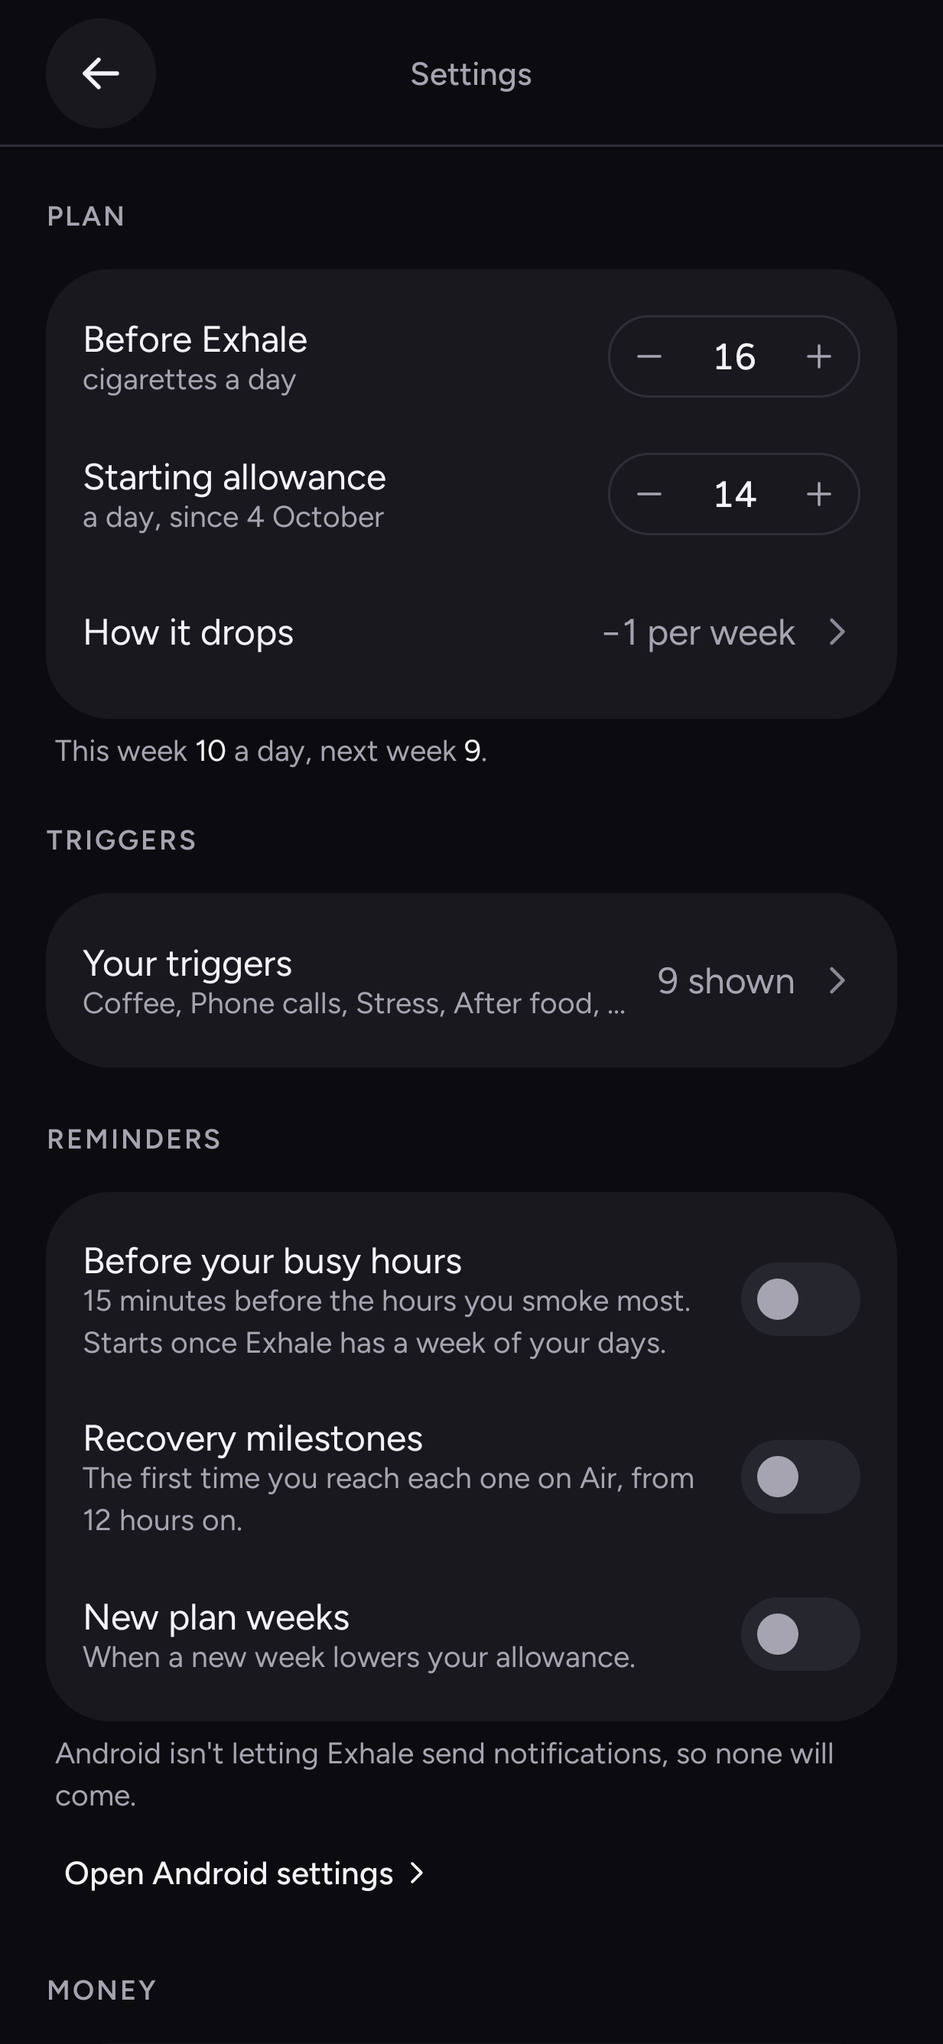
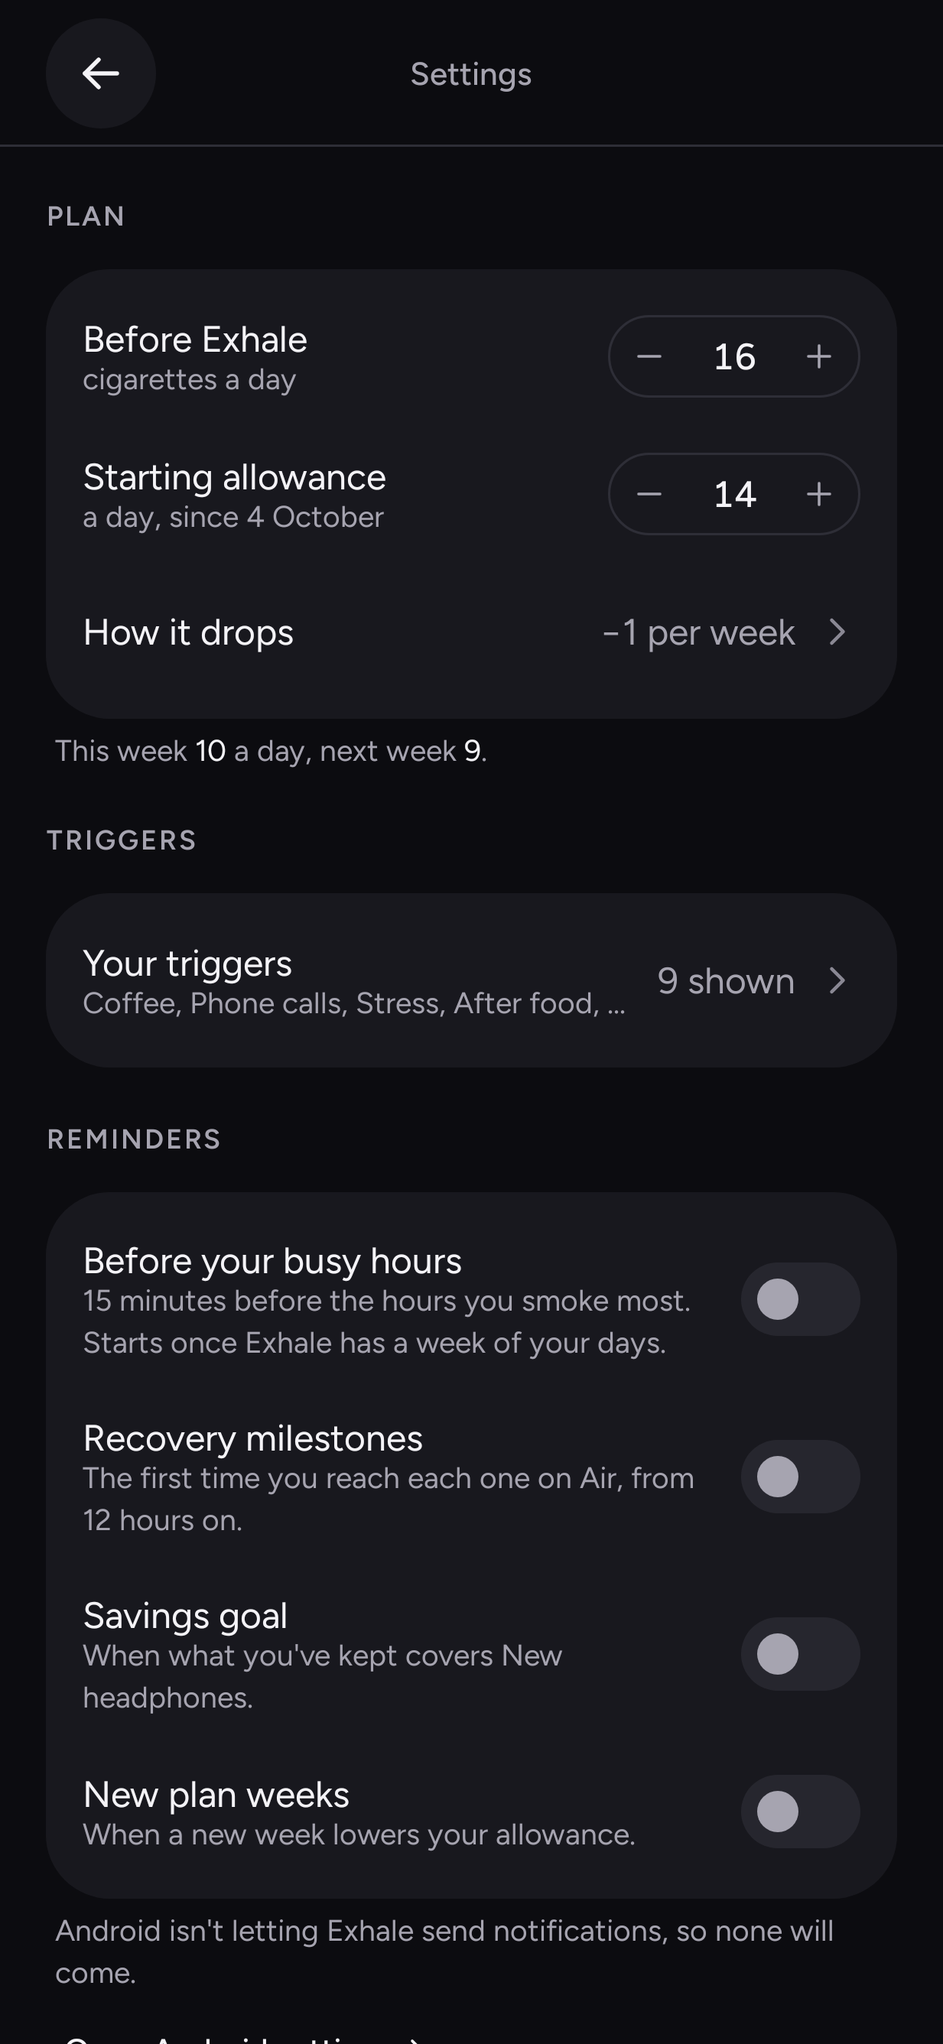
Reminders: tell the user when what's kept covers the savings goal
A fourth reminder kind, GOAL: posted at the first moment what's kept since
the plan start covers the goal (Money.goalReachedAt), once per goal. Opens
Money. Settings → Reminders gets a "Savings goal" switch.

Claude-Session: https://claude.ai/code/session_018i9YmsspXYpP5LPvfHarFx

diff --git a/app/src/main/java/app/exhale/ui/screens/SettingsScreen.kt b/app/src/main/java/app/exhale/ui/screens/SettingsScreen.kt
@@ -143,6 +143,8 @@ fun SettingsScreen(
     reminders: ReminderControls = ReminderControls(),
     /** The busy hours the nudges come before; null until there's a week to go on. */
     busyHours: List<Int>? = null,
+    /** What's kept already covers the goal. */
+    goalReached: Boolean = false,
 ) {
     var baseline by rememberSaveable { mutableIntStateOf(current.baselinePerDay) }
     var allowance by rememberSaveable { mutableIntStateOf(initialAllowance) }
@@ -186,7 +188,7 @@ fun SettingsScreen(
             when (p) {
                 null -> SettingsMain(
                     current, today, baseline, { baseline = it }, baselineChanged, allowance, { allowance = it }, allowanceChanged,
-                    dirty, mainScroll, onTheme, onHome, { page = it }, Triggers.shown(triggers), reminders, busyHours,
+                    dirty, mainScroll, onTheme, onHome, { page = it }, Triggers.shown(triggers), reminders, busyHours, goalReached,
                     { ask = Ask.ERASE }, prototypeTools?.let { t -> PrototypeTools(t.onDesignSystem) { ask = Ask.DEMO } },
                     onBack = { if (dirty) ask = Ask.UNSAVED else onClose() },
                     onSaveCounts = { saveCounts(); toast.show("Saved") },
@@ -263,6 +265,7 @@ private fun SettingsMain(
     shownTriggers: List<Trigger>,
     reminders: ReminderControls,
     busyHours: List<Int>?,
+    goalReached: Boolean,
     onErase: () -> Unit,
     tools: PrototypeTools?,
     onBack: () -> Unit,
@@ -306,7 +309,7 @@ private fun SettingsMain(
             }
 
             Overline("Reminders", Modifier.paddingTop())
-            Reminders(current, today, reminders, busyHours)
+            Reminders(current, today, reminders, busyHours, goalReached)
 
             Overline("Money", Modifier.paddingTop())
             ExCard(padding = ExSpace.sm) {
@@ -358,12 +361,12 @@ private fun CardWithCaption(content: @Composable ColumnScope.() -> Unit) {
 }
 
 /**
- * The three reminders as switches, each saying when it comes. A switch shows on only while the
+ * The four reminders as switches, each saying when it comes. A switch shows on only while the
  * reminder is on and Android lets Exhale post; when it doesn't, a line under the card says so and
  * links to Android's settings.
  */
 @Composable
-private fun Reminders(current: UserSettings, today: LocalDate, controls: ReminderControls, busyHours: List<Int>?) {
+private fun Reminders(current: UserSettings, today: LocalDate, controls: ReminderControls, busyHours: List<Int>?, goalReached: Boolean) {
     val c = Ex.colors
     val h24 = DateFormat.is24HourFormat(LocalContext.current)
     fun on(kind: ReminderKind) = controls.allowed && kind in current.reminders
@@ -380,6 +383,11 @@ private fun Reminders(current: UserSettings, today: LocalDate, controls: Reminde
             SwitchRow(
                 "Recovery milestones", on(ReminderKind.MILESTONE), { controls.onChange(ReminderKind.MILESTONE, it) },
                 sub = "The first time you reach each one on Air, from 12 hours on.",
+            )
+            SwitchRow(
+                "Savings goal", on(ReminderKind.GOAL), { controls.onChange(ReminderKind.GOAL, it) },
+                sub = "When what you've kept covers ${current.goalName}." +
+                    if (goalReached) " It already does, so a bigger goal would be next." else "",
             )
             SwitchRow(
                 "New plan weeks", on(ReminderKind.PLAN_WEEK), { controls.onChange(ReminderKind.PLAN_WEEK, it) },

diff --git a/app/src/main/java/app/exhale/notify/ReminderNotifier.kt b/app/src/main/java/app/exhale/notify/ReminderNotifier.kt
@@ -30,13 +30,15 @@ object ReminderNotifier {
     private fun channelId(kind: ReminderKind) = when (kind) {
         ReminderKind.BUSY_HOUR -> "busy_hours"
         ReminderKind.MILESTONE -> "milestones"
+        ReminderKind.GOAL -> "savings_goal"
         ReminderKind.PLAN_WEEK -> "plan_weeks"
     }
 
-    /** Where tapping it goes: a busy-hour nudge to Urge Wave, a milestone to Air, a plan week to Ember. */
+    /** Where tapping it goes: a busy-hour nudge to Urge Wave, a milestone to Air, the goal to Money, a plan week to Ember. */
     fun target(kind: ReminderKind) = when (kind) {
         ReminderKind.BUSY_HOUR -> OpenTarget.WAVE
         ReminderKind.MILESTONE -> OpenTarget.AIR
+        ReminderKind.GOAL -> OpenTarget.MONEY
         ReminderKind.PLAN_WEEK -> OpenTarget.EMBER
     }
 
@@ -61,6 +63,8 @@ object ReminderNotifier {
                     .apply { description = "A nudge 15 minutes before the hours you usually smoke most." },
                 NotificationChannel(channelId(ReminderKind.MILESTONE), "Recovery milestones", NotificationManager.IMPORTANCE_DEFAULT)
                     .apply { description = "The first time you reach each milestone on Air." },
+                NotificationChannel(channelId(ReminderKind.GOAL), "Savings goal", NotificationManager.IMPORTANCE_DEFAULT)
+                    .apply { description = "When what you've kept covers what you're saving for." },
                 // Quiet: it says what the day's plan is, nothing needs doing at that moment.
                 NotificationChannel(channelId(ReminderKind.PLAN_WEEK), "New plan weeks", NotificationManager.IMPORTANCE_LOW)
                     .apply { description = "When a new week of your plan lowers the allowance." },
@@ -74,11 +78,12 @@ object ReminderNotifier {
         if (!allowed(context)) return
         ensureChannels(context)
         // Accents tint the small icon: craving (flare) before a busy hour, recovery (oxygen) for a
-        // milestone, in between (sky) for the plan. Ink tones, so they read on a light shade too.
+        // milestone, money (sun) for the goal, in between (sky) for the plan. Ink tones, so they read on a light shade too.
         val c = exColors(dark = false)
         val accent = when (r.kind) {
             ReminderKind.BUSY_HOUR -> c.flareInk
             ReminderKind.MILESTONE -> c.oxyInk
+            ReminderKind.GOAL -> c.sunInk
             ReminderKind.PLAN_WEEK -> c.skyInk
         }
         val open = Intent(context, MainActivity::class.java)

diff --git a/app/src/main/java/app/exhale/domain/Reminders.kt b/app/src/main/java/app/exhale/domain/Reminders.kt
@@ -16,6 +16,9 @@ enum class ReminderKind(
     /** A recovery milestone reached for the first time. Still true until the next cigarette. */
     MILESTONE(Duration.ofHours(12)),
 
+    /** What's kept covers the savings goal, the first time. True all that day. */
+    GOAL(Duration.ofHours(24)),
+
     /** A new plan week that lowers the allowance. Posted at midnight; true all that day. */
     PLAN_WEEK(Duration.ofHours(24)),
 }
@@ -44,6 +47,13 @@ sealed interface Reminder {
         override val text get() = "The first time you've reached this one. Air shows what comes next."
     }
 
+    /** What's kept covers the goal called [goalName], first at [at]. Opens Money. */
+    data class GoalReached(override val at: Instant, val goalName: String) : Reminder {
+        override val kind get() = ReminderKind.GOAL
+        override val title get() = "You've kept enough for $goalName"
+        override val text get() = "What you didn't spend since you started covers it. Go get it."
+    }
+
     /** A plan week starting at [at] with [perDay] a day, down from [before]. Opens Ember. */
     data class PlanWeek(override val at: Instant, val perDay: Int, val before: Int) : Reminder {
         override val kind get() = ReminderKind.PLAN_WEEK
@@ -64,6 +74,8 @@ sealed interface Reminder {
  *   when a cigarette was logged or a craving wave started in the [BUSY_QUIET] before it.
  * - **Milestones**: each one from 12 hours on ([FIRST_MILESTONE]), the first time a gap reaches it.
  *   20 minutes comes after nearly every cigarette, so it never notifies.
+ * - **Goal**: the first moment what's kept covers the savings goal ([Money.goalReachedAt]). Once it
+ *   has, dipping under and back doesn't count again; a new, bigger goal does.
  * - **Plan weeks**: midnight on the first day of a plan week whose base allowance is lower than the
  *   day before. Never on Hold steady, and never again once the plan is at 0.
  */
@@ -87,6 +99,7 @@ object Reminders {
         return when (kind) {
             ReminderKind.BUSY_HOUR -> nextBusyHour(s, logs, now, after, zone)
             ReminderKind.MILESTONE -> nextMilestone(logs, after)
+            ReminderKind.GOAL -> Money.goalReachedAt(s, logs, zone)?.takeIf { it.isAfter(after) }?.let { Reminder.GoalReached(it, s.goalName) }
             ReminderKind.PLAN_WEEK -> nextPlanWeek(s, after, zone)
         }
     }

diff --git a/app/src/test/java/app/exhale/domain/MoneyTest.kt b/app/src/test/java/app/exhale/domain/MoneyTest.kt
@@ -8,6 +8,7 @@ import org.junit.Test
 import java.time.Instant
 import java.time.LocalDate
 import java.time.ZoneOffset
+import java.time.temporal.ChronoUnit
 
 class MoneyTest {
     private val zone = ZoneOffset.UTC
@@ -79,5 +80,37 @@ class MoneyTest {
         assertEquals(4L * 50, Money.keptFollowingPlan(s, days = 1))
         // A start above the baseline keeps nothing, never less.
         assertEquals(0L, Money.keptFollowingPlan(s.copy(startAllowance = 30, taper = TaperType.HOLD), days = 28))
+    }
+
+    private fun kept(logs: List<SmokeLog>, t: Instant) = Money.summary(settings, logs, t, zone).keptMinor
+
+    @Test fun goalReachedAt_isTheFirstMomentKeptCoversTheGoal() {
+        // 599.00 at 0.50 each is 1,198 not smoked: 66.6 days at 18 a day with none smoked.
+        val none = Money.goalReachedAt(settings, emptyList(), zone)!!
+        assertTrue(kept(emptyList(), none) >= 59900)
+        assertTrue(kept(emptyList(), none.minusSeconds(60)) < 59900)
+        assertEquals(at(66), none.truncatedTo(ChronoUnit.DAYS))
+        // At 10 a day for 40 days, then none: later, and still the first moment.
+        val logs = daily(10, 40)
+        val some = Money.goalReachedAt(settings, logs, zone)!!
+        assertTrue(some.isAfter(none))
+        assertTrue(kept(logs, some) >= 59900)
+        assertTrue(kept(logs, some.minusSeconds(60)) < 59900)
+    }
+
+    @Test fun goalReachedAt_aLogBeforeMovesItLaterOneAfterDoesNot() {
+        val reached = Money.goalReachedAt(settings, emptyList(), zone)!!
+        // One before: a cigarette's worth later, 1/18 of a day.
+        val before = listOf(SmokeLog(1, at(10), null, false))
+        assertEquals(reached.plusMillis(86_400_000L / 18), Money.goalReachedAt(settings, before, zone))
+        // One just after: kept dips under for a while, but it was reached.
+        val after = listOf(SmokeLog(1, reached.plusSeconds(60), null, false))
+        assertEquals(reached, Money.goalReachedAt(settings, after, zone))
+        assertTrue(kept(after, reached.plusSeconds(120)) < 59900)
+    }
+
+    @Test fun goalReachedAt_noneWithoutAGoalOrABaseline() {
+        assertNull(Money.goalReachedAt(settings.copy(goalMinor = 0), emptyList(), zone))
+        assertNull(Money.goalReachedAt(settings.copy(baselinePerDay = 0), emptyList(), zone))
     }
 }

diff --git a/app/src/main/java/app/exhale/domain/Money.kt b/app/src/main/java/app/exhale/domain/Money.kt
@@ -81,6 +81,31 @@ object Money {
     }
 
     /**
+     * The first moment what's kept since the plan start covers the goal ([MoneySummary.keptMinor] ≥
+     * [UserSettings.goalMinor]), counting [logs] as they are and none after the last one. In the past
+     * once reached, even if it has dipped under since; null with no goal, no price or a baseline of 0.
+     * Between two logs, what's kept grows by one cigarette every 1/baseline of a day.
+     */
+    fun goalReachedAt(s: UserSettings, logs: List<SmokeLog>, zone: ZoneId): Instant? {
+        val price = s.pricePerCigMinor
+        if (s.goalMinor <= 0 || price <= 0.0 || s.baselinePerDay <= 0) return null
+        // The fewest cigarettes not smoked whose price covers the goal, rounded as the summary rounds.
+        var need = ceil(s.goalMinor / price).toLong()
+        while (need > 0 && ((need - 1) * price).toLong() >= s.goalMinor) need--
+        while ((need * price).toLong() < s.goalMinor) need++
+        val start = s.planStart.atStartOfDay(zone).toInstant()
+        val smoked = logs.map { it.at }.filter { it >= start }.sorted()
+        // With j smoked so far, `need` not smoked is reached at start + (need + j) / baseline days. The
+        // first j whose moment comes before the (j + 1)th cigarette is the answer.
+        for (j in 0..smoked.size) {
+            // A millisecond over, so rounding can't leave it a hair short of a whole cigarette.
+            val at = start.plusMillis(ceil((need + j) * DAY_MS / s.baselinePerDay).toLong() + 1)
+            if (j == smoked.size || !at.isAfter(smoked[j])) return at
+        }
+        return null
+    }
+
+    /**
      * Money kept over the plan's first [days] if exactly the allowance is smoked each day: the
      * estimate Onboarding shows before anything is logged.
      */
@@ -89,5 +114,7 @@ object Money {
             (s.baselinePerDay - PlanMath.baseAllowance(s, s.planStart.plusDays(d.toLong()))).coerceAtLeast(0) * s.pricePerCigMinor
         }.toLong()
 
-    private fun daysBetween(from: Instant, to: Instant): Double = Duration.between(from, to).toMillis() / 86_400_000.0
+    private const val DAY_MS = 86_400_000.0
+
+    private fun daysBetween(from: Instant, to: Instant): Double = Duration.between(from, to).toMillis() / DAY_MS
 }

diff --git a/app/src/main/java/app/exhale/ui/ExhaleNav.kt b/app/src/main/java/app/exhale/ui/ExhaleNav.kt
@@ -88,8 +88,8 @@ internal enum class Tab(val route: String, val label: String, val icon: ImageVec
     }
 }
 
-/** A screen a tapped reminder opens: Urge Wave, Air or Ember. */
-enum class OpenTarget { WAVE, AIR, EMBER }
+/** A screen a tapped reminder opens: Urge Wave, Air, Money or Ember. */
+enum class OpenTarget { WAVE, AIR, MONEY, EMBER }
 
 /** What the app bar's leading shows: one per tab, and Rhythm's changes while a day is [picked]. */
 internal data class LeadingKey(val tab: Tab, val picked: Boolean = false)
@@ -182,6 +182,7 @@ private fun MainNav(state: ExhaleState, logged: LoggedEvent?, vm: ExhaleViewMode
         when (open) {
             OpenTarget.WAVE -> if (nav.currentDestination?.route != WAVE) nav.navigate(WAVE)
             OpenTarget.AIR -> goToTab(Tab.AIR)
+            OpenTarget.MONEY -> goToTab(Tab.MONEY)
             OpenTarget.EMBER -> goToTab(Tab.EMBER)
             null -> return@LaunchedEffect
         }
@@ -310,6 +311,7 @@ private fun MainNav(state: ExhaleState, logged: LoggedEvent?, vm: ExhaleViewMode
                 SettingsScreen(
                     reminders = reminderControls(vm),
                     busyHours = state.busyHours,
+                    goalReached = state.money?.goalLeftMinor == 0L,
                     current = state.settings,
                     today = state.today,
                     onSave = vm::saveSettings,

diff --git a/app/src/test/java/app/exhale/domain/RemindersTest.kt b/app/src/test/java/app/exhale/domain/RemindersTest.kt
@@ -107,6 +107,20 @@ class RemindersTest {
         assertNull(next(ReminderKind.MILESTONE, emptyList()))
     }
 
+    // --- Goal
+
+    @Test fun goal_whenKeptFirstCoversIt() {
+        val s = settings.copy(baselinePerDay = 15, goalName = "New headphones", goalMinor = 20000)
+        val reached = Money.goalReachedAt(s, emptyList(), zone)!!
+        val r = next(ReminderKind.GOAL, emptyList(), s = s, after = reached.minusSeconds(1)) as Reminder.GoalReached
+        assertEquals(reached, r.at)
+        assertEquals("You've kept enough for New headphones", r.title)
+        // Once it's behind `after`, no more: dipping under and back doesn't count again.
+        assertNull(next(ReminderKind.GOAL, emptyList(), s = s, after = reached))
+        // A bigger goal is a new one.
+        assertTrue(next(ReminderKind.GOAL, emptyList(), s = s.copy(goalMinor = 90000), after = reached)!!.at.isAfter(reached))
+    }
+
     // --- Plan weeks
 
     @Test fun planWeek_atMidnightWhenTheAllowanceDrops() {
@@ -151,6 +165,7 @@ class RemindersTest {
     @Test fun lateness_perKind() {
         assertEquals(Duration.ofMinutes(15), ReminderKind.BUSY_HOUR.late)
         assertEquals(Duration.ofHours(12), ReminderKind.MILESTONE.late)
+        assertEquals(Duration.ofHours(24), ReminderKind.GOAL.late)
         assertEquals(Duration.ofHours(24), ReminderKind.PLAN_WEEK.late)
     }
 

diff --git a/docs/SPEC.md b/docs/SPEC.md
@@ -361,12 +361,14 @@ Edits everything set during onboarding; keeps the original plan start. Sections,
   day." for Hold steady), plus "That start is above your usual 16." when the start is above Before Exhale.
 - **Triggers**, one card: **Your triggers** with how many are shown ("9 shown") and their names on a
   second line cut short with "…", opening the Triggers screen (§3.11).
-- **Reminders**, one card of three switches (`SwitchRow`), all off at first; each applies and saves the
+- **Reminders**, one card of four switches (`SwitchRow`), all off at first; each applies and saves the
   moment it's tapped (§3.9 says what they send):
   - **Before your busy hours**: "15 minutes before 8 am and 6 pm, the hours you smoke most." (the busy hours
     in the phone's 12/24-hour form, earliest first), or "… Starts once Exhale has a week of your days." until
     `Reminders.busyHours` has one, or "… Starts once you've logged some." with a week and nothing logged.
   - **Recovery milestones**: "The first time you reach each one on Air, from 12 hours on."
+  - **Savings goal**: "When what you've kept covers New headphones." (the goal's name), adding "It already
+    does, so a bigger goal would be next." once it has.
   - **New plan weeks**: "When a new week lowers your allowance." On Hold steady or once the plan is at 0
     it adds "Yours holds steady, so none will come." / "Yours is at zero, so none will come."
   - Turning one on when Android doesn't let Exhale post asks for the notification permission (Android 13+)
@@ -438,12 +440,14 @@ data?") with the safe choice as a Ghost button; neither uses a warm colour.
     them from `app/build/outputs/roborazzi/` when the widget's look changes.
   - The round button and the Undo pill are drawn as bitmaps, so they are round before Android 12 too; the card's
     own corners come from Glance (Android 12+) and the launcher.
-- **Reminders** — `notify/` (on/off in Settings → Reminders, §3.8; rules in §4 Reminders). Three kinds, one
+- **Reminders** — `notify/` (on/off in Settings → Reminders, §3.8; rules in §4 Reminders). Four kinds, one
   Android channel each so they can also be muted there, one notification per kind (a newer one replaces it):
   - **Before your busy hours** ("Before your busy hours" channel, default importance): "Your busy hour starts
     soon" / "A craving peaks and fades in about 4 minutes. Ride it out here if one comes." Tapping opens Urge Wave.
   - **Recovery milestones** (default importance): "12 hours · Carbon monoxide back to normal" / "The first time
     you've reached this one. Air shows what comes next." Tapping opens Air.
+  - **Savings goal** (default importance): "You've kept enough for New headphones" / "What you didn't spend
+    since you started covers it. Go get it." Tapping opens Money.
   - **New plan weeks** (low importance: silent, no pop-up): "This week: 9 a day" / "One fewer than last week."
     ("3 fewer than last week.", or at 0 "Your plan reaches zero. Urge Wave is here when a craving comes.").
     Tapping opens Ember.
@@ -550,6 +554,7 @@ reads through to it.
   7 and 30 days (null until the plan is older than the window), the weekly pace (last 7 days, else
   the average week so far once a day in), packs and remainder, goal left, progress and weeks to it
   (`ceil(left / weekly)`, 0 once reached, null at a pace of 0). Projections are `weekly × days / 7`.
+- `goalReachedAt(s, logs, zone)`: the first moment what's kept covers the goal (see §4 Reminders, Goal).
 - `keptFollowingPlan(s, days)`: what the first `days` of the plan keep if exactly the base allowance is
   smoked each day (Onboarding's "first 4 weeks" line).
 
@@ -650,10 +655,14 @@ Loading it keeps the current Appearance and Home screen.
   - **Milestone**: from 12 hours on (`FIRST_MILESTONE`; 20 minutes comes after nearly every cigarette), at the
     last cigarette + the milestone's time, only for milestones no gap between two cigarettes has reached yet
     (the first time ever), and only those still ahead of `after`.
+  - **Goal**: `Money.goalReachedAt`, the first moment what's kept since the plan start covers the goal, counting
+    the logs so far and none after (between two logs, one more cigarette is kept every 1/baseline of a day; a
+    log moves it later). It stays the first moment even if a log dips what's kept under the goal again, so it
+    notifies once per goal; a new, bigger goal notifies when it's reached. None without a goal or baseline.
   - **Plan week**: midnight on the first day of the next plan week after `after` whose base allowance is lower
     than the day before (`perDay`, `before`). None on Hold steady or once the plan is at 0.
 - `shouldPost(reminder, logs, urges, now)`: from its time until its kind's `late` has passed (busy hour 15 min,
-  so never once the hour has begun; milestone 12 h; plan week 24 h). A busy-hour nudge is also skipped if a
+  so never once the hour has begun; milestone 12 h; goal and plan week 24 h). A busy-hour nudge is also skipped if a
   cigarette was logged or a craving wave started in the 30 minutes before (`BUSY_QUIET`).
 - The words (`title`, `text`) are part of each `Reminder`, so tests check them.
 
@@ -725,7 +734,7 @@ Every change to `domain/` needs a unit test. Every new screen needs a screenshot
 **Now (prototype, v0.1)** — everything above, local data only.
 
 **Next**
-- Notifications: "next one earned" (opt-in). (Busy-hour nudges, milestones and plan weeks are in: §3.9.)
+- Notifications: "next one earned" (opt-in). (Busy-hour nudges, milestones, the savings goal and plan weeks are in: §3.9.)
 - AGSL `RuntimeShader` orb and particle field on API 33+, current Canvas versions as fallback.
 - Accelerometer drift on the Air particles; flip-face-down mode for Urge Wave.
 - CSV export; biometric app lock; discreet icon/notification option.
